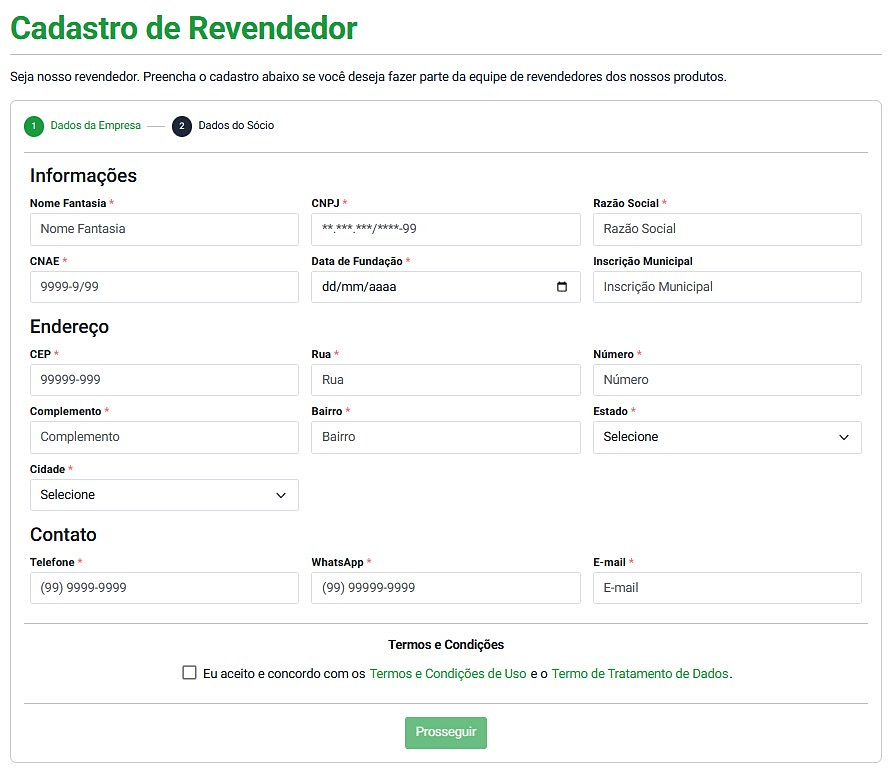
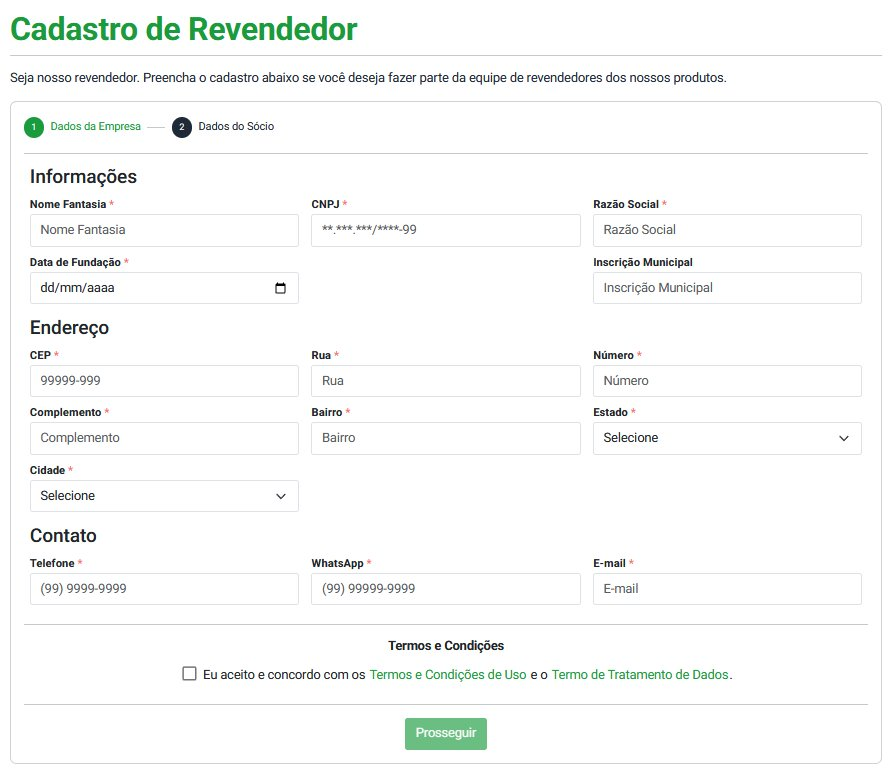
Cadastro de Revendedor: novas capturas e instruções com menos campos
- Dados da Empresa: sem CNAE; corrige "inscrição estadual" para "inscrição municipal"
- Dados do Sócio: apenas Nome, CPF, Celular e E-mail; avisa que os campos com * são obrigatórios
- Capturas 04 e 05 refeitas com o mesmo enquadramento das anteriores

diff --git a/src/content/modulos/01-acesso.tsx b/src/content/modulos/01-acesso.tsx
@@ -118,8 +118,8 @@ export const acesso: Modulo = {
         comoUsar: (
           <ol>
             <li>
-              Informe os dados da empresa: <strong>nome fantasia, CNPJ, razão social, CNAE e data de
-              fundação</strong>. Se a empresa possuir <strong>inscrição estadual</strong>, informe
+              Informe os dados da empresa: <strong>nome fantasia, CNPJ, razão social e data de
+              fundação</strong>. Se a empresa possuir <strong>inscrição municipal</strong>, informe
               também esse dado.
             </li>
             <li>
@@ -137,7 +137,7 @@ export const acesso: Modulo = {
           </ol>
         ),
       },
-      dica: "Os campos com * são obrigatórios. O comprovante do CNPJ pode ajudar a conferir razão social, CNAE e data de fundação.",
+      dica: "Os campos com * são obrigatórios. O comprovante do CNPJ pode ajudar a conferir razão social e data de fundação.",
     },
     {
       id: "acesso-6",
@@ -146,16 +146,15 @@ export const acesso: Modulo = {
       captura: {
         arquivo: "05-cadastro-2.jpg",
         legenda: "Cadastro de Revendedor: Dados do Sócio",
-        oQueE: "A segunda parte do cadastro, com os dados pessoais do sócio responsável.",
+        oQueE: "A segunda parte do cadastro, com a identificação e o contato do sócio responsável.",
         paraQueServe: "Identificar o responsável pela empresa.",
         comoUsar: (
           <ol>
             <li>
-              Preencha as informações solicitadas: <strong>Nome, CPF, RG, Órgão emissor, Data de
-              nascimento, Naturalidade, Estado civil e Sexo</strong>.
+              Preencha as informações solicitadas: <strong>Nome e CPF</strong>. Os campos
+              com <Obrigatorio /> são obrigatórios.
             </li>
-            <li>Informe o endereço do sócio, começando pelo <strong>CEP</strong>.</li>
-            <li>Preencha os dados de contato: telefone, celular e e-mail.</li>
+            <li>Preencha os dados de contato: celular e e-mail.</li>
             <li>Confirme a aceitação dos <strong>Termos e Condições</strong>.</li>
             <li>
               Clique em <Verde>Enviar</Verde>. Para corrigir os dados da empresa,
